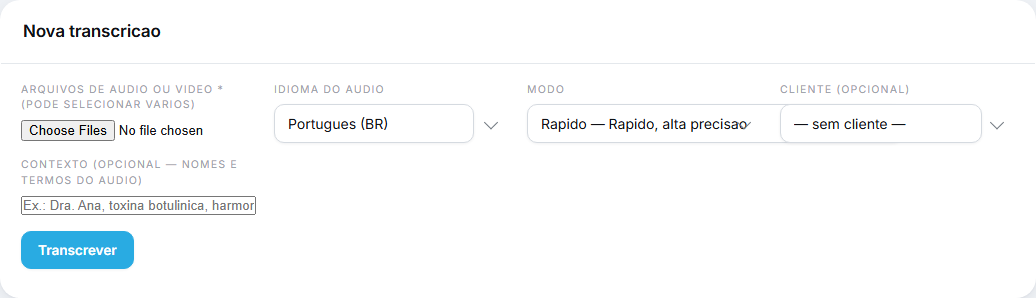
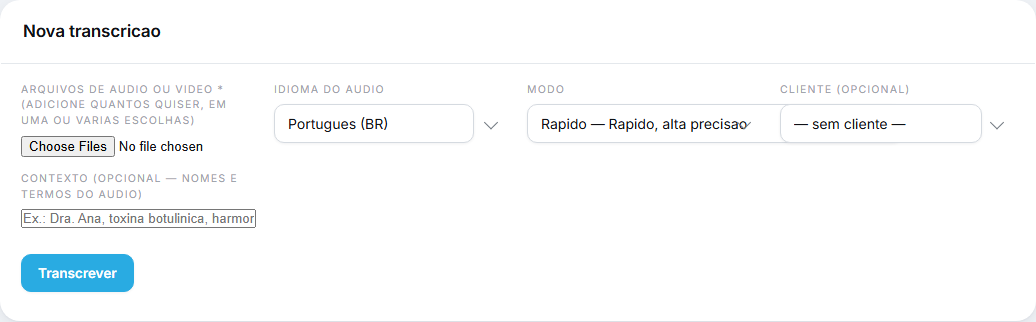
Transcritor: lista de arquivos acumulada e correcoes de UX
- Arquivos escolhidos viram chips com remover; escolher de novo
  ADICIONA em vez de substituir (corrige "so consigo escolher 1 vez")
- Polling atualiza SO a lista de jobs: o formulario (arquivos,
  contexto, selects) nao e mais destruido durante um processamento
- Botao mostra a contagem ("Transcrever N arquivos")
- Botao Retranscrever em jobs concluidos (refaz com config nova,
  com confirmacao)
- Badge GPU/CPU no card do job

diff --git a/central/central.js b/central/central.js
@@ -4500,6 +4500,11 @@
   var trTimestamps = {}; // jobId -> mostrar timestamps no texto expandido
   var trResultados = {}; // jobId -> resultado carregado (texto + segmentos)
   var trPollTimer = null;
+  // Arquivos escolhidos ANTES do envio. Vive fora do DOM de proposito: o
+  // polling re-renderiza a lista de jobs e um input.files nativo perderia a
+  // selecao no meio do caminho (bug real). Tambem permite adicionar arquivos
+  // em varias escolhas seguidas.
+  var trArquivos = [];
 
   var ROTULO_STATUS_TR = {
     aguardando: "Na fila",
@@ -4542,7 +4547,9 @@
         .then(function (r) {
           trInfo = r;
           trJobs = r.jobs || [];
-          renderTranscritorCorpo();
+          // So a lista de jobs: o formulario (arquivos escolhidos, contexto,
+          // selects) NAO pode ser destruido pelo polling.
+          renderJobsTr();
           agendarPollingTr();
         })
         .catch(function () { agendarPollingTr(); });
@@ -4586,7 +4593,7 @@
     } else {
       h += '<div class="painel ct-secao"><div class="painel-topo"><h3>Nova transcricao</h3></div><div style="padding:18px 20px;">' +
         '<div class="ct-form-grid">' +
-          '<div class="campo"><label>Arquivos de audio ou video * (pode selecionar varios)</label>' +
+          '<div class="campo"><label>Arquivos de audio ou video * (adicione quantos quiser, em uma ou varias escolhas)</label>' +
             '<input type="file" id="tr-arquivo" multiple accept=".mp3,.wav,.m4a,.aac,.ogg,.flac,.mp4,.mov,.webm,.mkv,audio/*,video/*" /></div>' +
           '<div class="campo"><label>Idioma do audio</label><div class="select-wrap"><select id="tr-idioma">' +
             (trInfo.idiomas || [{ id: "pt", rotulo: "Portugues (BR)" }]).map(function (l) {
@@ -4605,6 +4612,7 @@
           '<div class="campo"><label>Contexto (opcional — nomes e termos do audio)</label>' +
             '<input type="text" id="tr-contexto" placeholder="Ex.: Dra. Ana, toxina botulinica, harmonizacao" /></div>' +
         "</div>" +
+        '<div id="tr-lista-arquivos" style="display:flex;flex-wrap:wrap;gap:8px;margin:4px 0 10px;"></div>' +
         '<div class="ct-form-acoes" style="margin-top:6px;">' +
           '<button class="btn-toolbar" data-act="tr-enviar">Transcrever</button>' +
           '<span id="tr-envio-status" style="font-size:13px;color:var(--text-3);"></span>' +
@@ -4617,17 +4625,81 @@
            "Revise nomes proprios e termos tecnicos antes de usar em entregavel. Limite de " + limiteMb + " MB por arquivo.</div>";
     }
 
-    h += '<div class="painel ct-secao"><div class="painel-topo"><h3>Transcricoes</h3>' +
-         '<span class="contador"><b>' + trJobs.length + "</b> item(ns)</span></div>";
+    h += '<div id="tr-jobs-wrap"></div>';
+
+    root.innerHTML = h;
+    ligarFormTr(root);
+    atualizarListaArquivosTr();
+    renderJobsTr();
+  }
+
+  // Lista de jobs em container proprio: o polling atualiza SO isto.
+  function renderJobsTr() {
+    var wrap = document.getElementById("tr-jobs-wrap");
+    if (!wrap) return;
+    var h = '<div class="painel ct-secao"><div class="painel-topo"><h3>Transcricoes</h3>' +
+            '<span class="contador"><b>' + trJobs.length + "</b> item(ns)</span></div>";
     if (!trJobs.length) {
       h += '<div class="vazio">Nenhuma transcricao ainda. Envie um audio ou video acima.</div>';
     } else {
       h += '<div style="padding:6px 0;">' + trJobs.map(htmlJobTr).join("") + "</div>";
     }
     h += "</div>";
+    wrap.innerHTML = h;
+    ligarJobsTr(wrap);
+  }
 
-    root.innerHTML = h;
-    ligarTranscritor(root);
+  // Chips dos arquivos escolhidos (com remover) + contagem no botao.
+  function atualizarListaArquivosTr() {
+    var lista = document.getElementById("tr-lista-arquivos");
+    if (!lista) return;
+    lista.innerHTML = trArquivos.map(function (a, i) {
+      var mb = (a.size / (1024 * 1024)).toFixed(1);
+      return '<span class="tag" style="display:inline-flex;align-items:center;gap:8px;max-width:100%;">' +
+        '<span style="overflow:hidden;text-overflow:ellipsis;white-space:nowrap;max-width:320px;">' + esc(a.name) + "</span>" +
+        '<span style="color:var(--text-3);">' + mb + " MB</span>" +
+        '<button type="button" data-tr-rmarq="' + i + '" title="Remover" style="border:none;background:none;color:var(--text-3);cursor:pointer;font-size:14px;line-height:1;padding:0;">&#10005;</button>' +
+      "</span>";
+    }).join("");
+    lista.querySelectorAll("[data-tr-rmarq]").forEach(function (b) {
+      b.addEventListener("click", function () {
+        trArquivos.splice(Number(b.getAttribute("data-tr-rmarq")), 1);
+        atualizarListaArquivosTr();
+      });
+    });
+    var btn = document.querySelector('#transcritor-root [data-act="tr-enviar"]');
+    if (btn && !btn.disabled) {
+      btn.textContent = trArquivos.length > 1 ? "Transcrever " + trArquivos.length + " arquivos" : "Transcrever";
+    }
+  }
+
+  function ligarFormTr(root) {
+    var btnEnviar = root.querySelector('[data-act="tr-enviar"]');
+    if (btnEnviar) btnEnviar.addEventListener("click", function () { enviarTranscricao(root); });
+    var inputArq = root.querySelector("#tr-arquivo");
+    if (inputArq) {
+      inputArq.addEventListener("change", function () {
+        var novos = Array.prototype.slice.call(inputArq.files || []);
+        var limite = ((trInfo && trInfo.limiteMb) || 2048) * 1024 * 1024;
+        var recusados = [];
+        novos.forEach(function (a) {
+          var duplicado = trArquivos.some(function (x) { return x.name === a.name && x.size === a.size; });
+          if (duplicado) return;
+          if (a.size > limite) { recusados.push(a.name); return; }
+          trArquivos.push(a);
+        });
+        // Limpa o input nativo: a selecao real vive em trArquivos, e assim a
+        // proxima escolha ADICIONA em vez de substituir.
+        inputArq.value = "";
+        var erroEl = root.querySelector("#tr-form-erro");
+        if (erroEl) {
+          erroEl.textContent = recusados.length
+            ? "Acima do limite de " + ((trInfo && trInfo.limiteMb) || 2048) + " MB: " + recusados.join(", ")
+            : "";
+        }
+        atualizarListaArquivosTr();
+      });
+    }
   }
 
   function rotuloModo(id) {
@@ -4642,7 +4714,8 @@
   function htmlJobTr(job) {
     var cliente = job.clienteNome ? " · " + esc(job.clienteNome) : "";
     var dur = job.duracaoAudio ? " · " + fmtDuracao(job.duracaoAudio) : "";
-    var extra = " · " + esc(rotuloIdioma(job.idioma)) + " · " + esc(rotuloModo(job.modo));
+    var extra = " · " + esc(rotuloIdioma(job.idioma)) + " · " + esc(rotuloModo(job.modo)) +
+      (job.device ? " · " + (job.device === "cuda" ? "GPU" : "CPU") : "");
     var statusHtml = '<span class="ct-badge ' + (CLASSE_STATUS_TR[job.status] || "") + '">' + esc(ROTULO_STATUS_TR[job.status] || job.status) + "</span>";
 
     var meta = '<div class="hook-meta">' + fmtData(job.criadoEm) + cliente + dur + extra + "</div>";
@@ -4662,6 +4735,7 @@
     }
     if (job.status === "concluido") {
       acoes += '<button class="btn-sm salvar" data-tr-expandir="' + esc(job.id) + '">Ver transcricao</button>';
+      acoes += '<button class="btn-sm" data-tr-retranscrever="' + esc(job.id) + '">Retranscrever</button>';
     }
     acoes += '<button class="btn-sm" data-tr-excluir="' + esc(job.id) + '">Excluir</button>';
 
@@ -4713,15 +4787,22 @@
       .catch(function (err) { pulsarAlert("Erro: " + err.message); });
   }
 
-  function ligarTranscritor(root) {
-    var btnEnviar = root.querySelector('[data-act="tr-enviar"]');
-    if (btnEnviar) btnEnviar.addEventListener("click", function () { enviarTranscricao(root); });
-
+  function ligarJobsTr(root) {
     root.querySelectorAll("[data-tr-cancelar]").forEach(function (b) {
       b.addEventListener("click", function () { trAcao("cancelar", b.getAttribute("data-tr-cancelar")); });
     });
     root.querySelectorAll("[data-tr-reprocessar]").forEach(function (b) {
       b.addEventListener("click", function () { trAcao("reprocessar", b.getAttribute("data-tr-reprocessar")); });
+    });
+    root.querySelectorAll("[data-tr-retranscrever]").forEach(function (b) {
+      b.addEventListener("click", function () {
+        var id = b.getAttribute("data-tr-retranscrever");
+        pulsarConfirm("Retranscrever este arquivo com a configuracao atual? A transcricao existente sera substituida.").then(function (ok) {
+          if (!ok) return;
+          delete trResultados[id];
+          trAcao("reprocessar", id);
+        });
+      });
     });
     root.querySelectorAll("[data-tr-excluir]").forEach(function (b) {
       b.addEventListener("click", function () {
@@ -4734,9 +4815,9 @@
     root.querySelectorAll("[data-tr-expandir]").forEach(function (b) {
       b.addEventListener("click", function () {
         var id = b.getAttribute("data-tr-expandir");
-        if (trResultados[id]) { delete trResultados[id]; renderTranscritorCorpo(); return; }
+        if (trResultados[id]) { delete trResultados[id]; renderJobsTr(); return; }
         api("/api/paid-ads/transcritor-job?id=" + encodeURIComponent(id))
-          .then(function (r) { if (r.resultado) trResultados[id] = r.resultado; renderTranscritorCorpo(); })
+          .then(function (r) { if (r.resultado) trResultados[id] = r.resultado; renderJobsTr(); })
           .catch(function (err) { pulsarAlert("Erro: " + err.message); });
       });
     });
@@ -4744,7 +4825,7 @@
       b.addEventListener("click", function () {
         var id = b.getAttribute("data-tr-timestamps");
         trTimestamps[id] = !trTimestamps[id];
-        renderTranscritorCorpo();
+        renderJobsTr();
       });
     });
     root.querySelectorAll("[data-tr-copiar]").forEach(function (b) {
@@ -4771,7 +4852,7 @@
       .then(function () { return api("/api/paid-ads/transcritor"); })
       .then(function (r) {
         trInfo = r; trJobs = r.jobs || [];
-        renderTranscritorCorpo();
+        renderJobsTr();
         agendarPollingTr();
       })
       .catch(function (err) { pulsarAlert("Erro: " + (err.offline ? "Backend offline." : err.message)); });
@@ -4780,15 +4861,8 @@
   function enviarTranscricao(root) {
     var erroEl = root.querySelector("#tr-form-erro");
     var statusEl = root.querySelector("#tr-envio-status");
-    var input = root.querySelector("#tr-arquivo");
-    var arquivos = input && input.files ? Array.prototype.slice.call(input.files) : [];
+    var arquivos = trArquivos.slice();
     if (!arquivos.length) { erroEl.textContent = "Escolha um ou mais arquivos de audio ou video."; return; }
-    var limiteMb = (trInfo && trInfo.limiteMb) || 2048;
-    var grande = arquivos.filter(function (a) { return a.size > limiteMb * 1024 * 1024; });
-    if (grande.length) {
-      erroEl.textContent = "Arquivo(s) acima do limite de " + limiteMb + " MB: " + grande.map(function (a) { return a.name; }).join(", ") + ".";
-      return;
-    }
     erroEl.textContent = "";
     var btn = root.querySelector('[data-act="tr-enviar"]');
     if (btn) btn.disabled = true;
@@ -4829,20 +4903,20 @@
 
     enviarUm(0)
       .then(function () {
-        if (btn) btn.disabled = false;
+        if (btn) { btn.disabled = false; btn.textContent = "Transcrever"; }
         if (statusEl) statusEl.textContent = "";
-        input.value = "";
-        root.querySelector("#tr-contexto").value = "";
+        trArquivos = [];
+        atualizarListaArquivosTr();
         erroEl.textContent = falhas.length ? "Nao foi possivel enviar: " + falhas.join("; ") : "";
         return api("/api/paid-ads/transcritor");
       })
       .then(function (r) {
         trInfo = r; trJobs = r.jobs || [];
-        renderTranscritorCorpo();
+        renderJobsTr();
         agendarPollingTr();
       })
       .catch(function (err) {
-        if (btn) btn.disabled = false;
+        if (btn) { btn.disabled = false; btn.textContent = "Transcrever"; }
         if (statusEl) statusEl.textContent = "";
         erroEl.textContent = "Falha no envio: " + err.message;
       });
